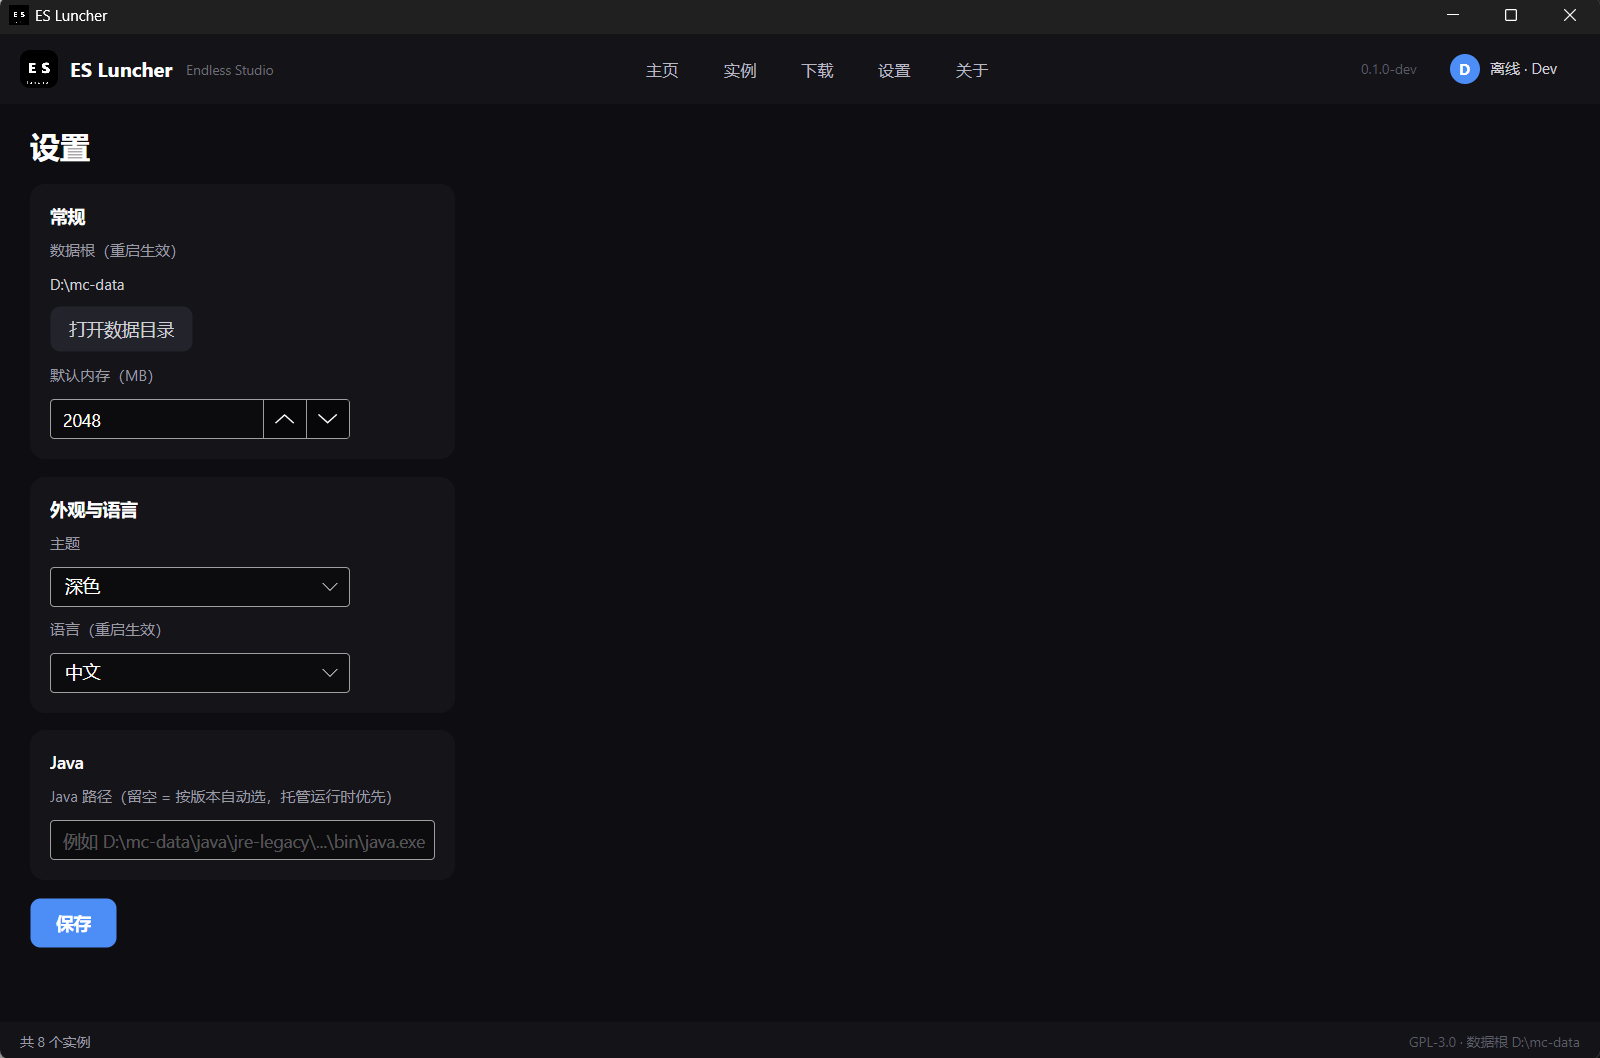
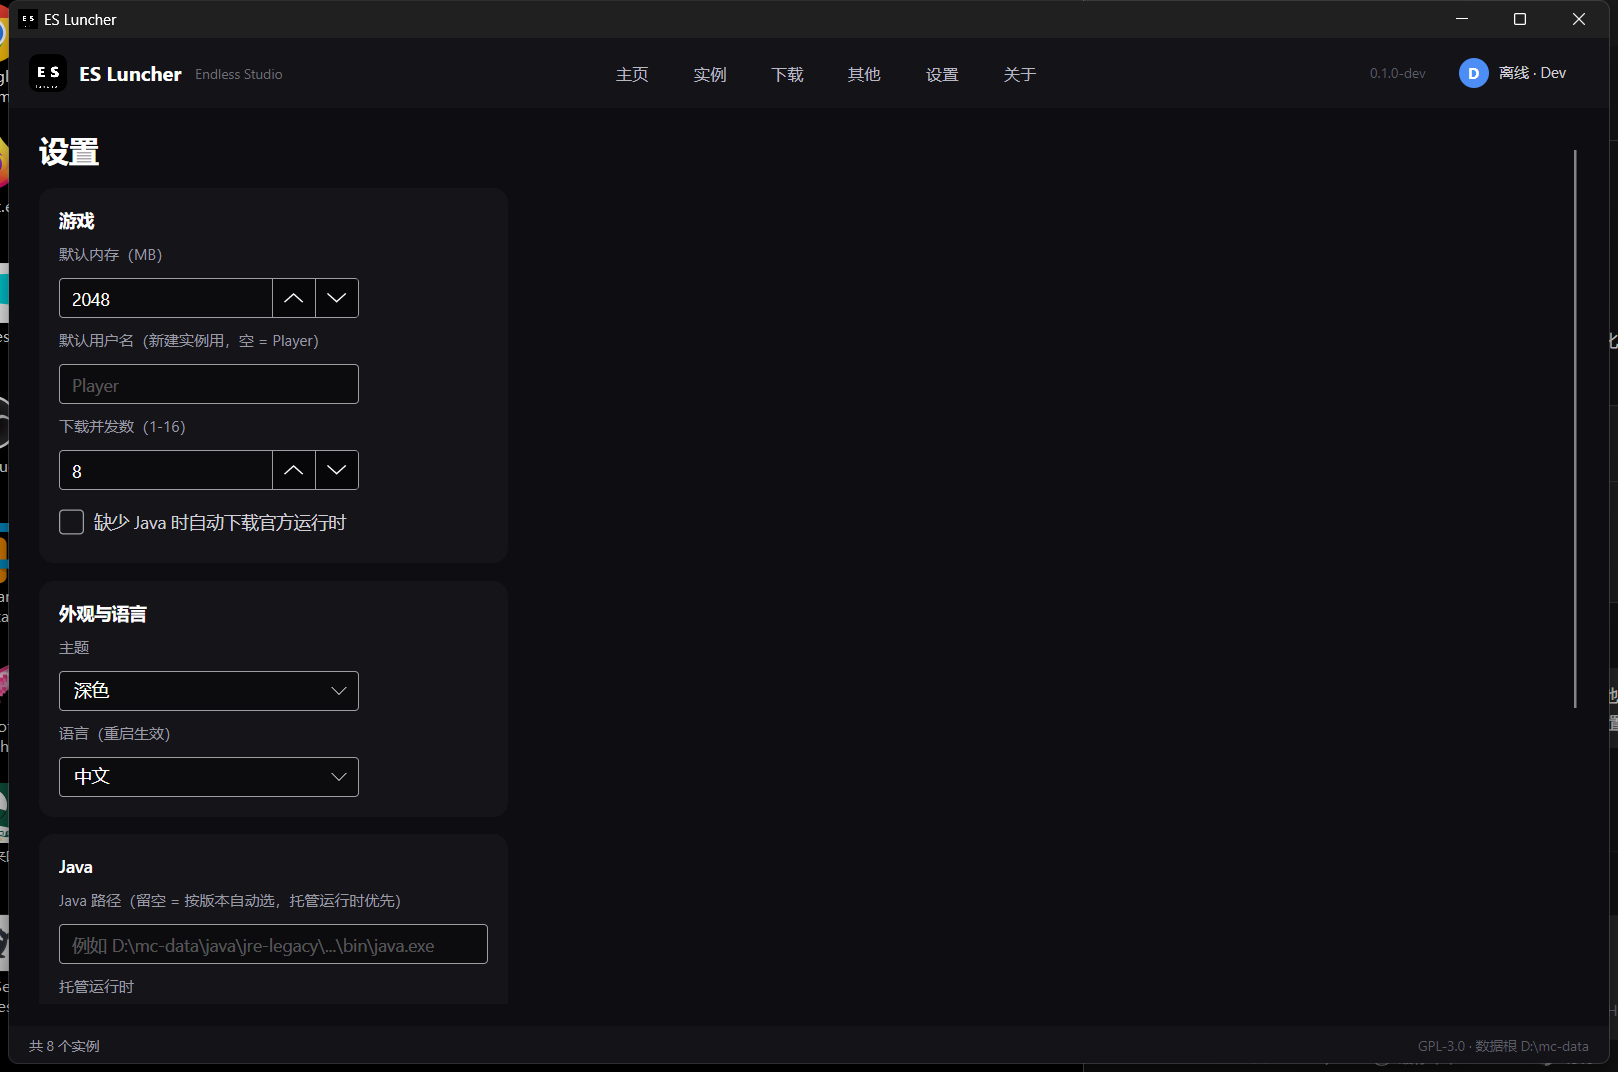
feat(ui): Others page and HMCL-style settings sections
Top nav gains 其他 with instance tools (accounts/diagnostics/logs/folders) and utilities (trash clear, developer guide, licenses). Settings rebuilt into cards: game (memory/username/concurrency/auto Java), appearance/language, Java runtimes list, data folders. New settings wired into instance creation and download concurrency. Evidence: screenshots, 196 tests.

diff --git a/src/EsLuncher.App/MainWindow.axaml.cs b/src/EsLuncher.App/MainWindow.axaml.cs
@@ -52,7 +52,7 @@ public partial class MainWindow : Window
 
         // 开发/验收用的页面起始入口：ESLUNCHER_UI_PAGE=home|instances|downloads|settings|about
         var page = Environment.GetEnvironmentVariable("ESLUNCHER_UI_PAGE")?.ToLowerInvariant();
-        if (page is "home" or "instances" or "downloads" or "settings" or "about")
+        if (page is "home" or "instances" or "downloads" or "others" or "settings" or "about")
         {
             ApplyNav(page);
         }
@@ -113,12 +113,30 @@ public partial class MainWindow : Window
         HomePage.IsVisible = tag == "home";
         InstancesPage.IsVisible = tag == "instances";
         DownloadsPage.IsVisible = tag == "downloads";
+        OthersPage.IsVisible = tag == "others";
         SettingsPage.IsVisible = tag == "settings";
         AboutPage.IsVisible = tag == "about";
         if (tag is "home" or "instances")
         {
             RefreshHome();
         }
+
+        if (tag == "others")
+        {
+            RefreshOthers();
+        }
+    }
+
+    private void RefreshOthers()
+    {
+        if (OthersInstanceText is null)
+        {
+            return;
+        }
+
+        OthersInstanceText.Text = InstanceList?.SelectedItem is InstanceItem item
+            ? $"{item.Name} · {item.Version}" + (string.IsNullOrWhiteSpace(item.Group) ? string.Empty : $" · {item.Group}")
+            : "未选择实例（先到实例页选一个）";
     }
 
     private void OnNavClick(object? sender, RoutedEventArgs e)
@@ -130,6 +148,98 @@ public partial class MainWindow : Window
     }
 
     private void OnGoInstancesClick(object? sender, RoutedEventArgs e) => ApplyNav("instances");
+
+    private void OnOthersAccountsClick(object? sender, RoutedEventArgs e)
+    {
+        new AccountsWindow(_layout, InstanceList.SelectedItem is InstanceItem item ? item.Config : null)
+            .ShowDialog(this);
+    }
+
+    private void OnOthersDiagnosticsClick(object? sender, RoutedEventArgs e)
+    {
+        if (InstanceList.SelectedItem is InstanceItem item)
+        {
+            new DiagnosticsWindow(item.Config.Name, _layout).ShowDialog(this);
+        }
+    }
+
+    private void OnOthersLogClick(object? sender, RoutedEventArgs e)
+    {
+        if (InstanceList.SelectedItem is InstanceItem item)
+        {
+            new LogWindow(item.Config.Name, _layout).Show(this);
+        }
+    }
+
+    private void OnOthersOpenInstanceClick(object? sender, RoutedEventArgs e)
+    {
+        if (InstanceList.SelectedItem is InstanceItem item)
+        {
+            Process.Start(new ProcessStartInfo("explorer.exe", _layout.InstanceDir(item.Config.Name)) { UseShellExecute = true });
+        }
+    }
+
+    private void OnOthersOpenDataClick(object? sender, RoutedEventArgs e) => OpenDirectory(_layout.Root);
+
+    private void OnOthersOpenLogsClick(object? sender, RoutedEventArgs e) => OpenDirectory(Path.Combine(_layout.Root, "logs"));
+
+    private void OnOthersOpenCacheClick(object? sender, RoutedEventArgs e) => OpenDirectory(Path.Combine(_layout.Root, "cache"));
+
+    private void OnOthersOpenTrashClick(object? sender, RoutedEventArgs e) => OpenDirectory(Path.Combine(_layout.Root, "trash"));
+
+    private void OnOthersClearTrashClick(object? sender, RoutedEventArgs e)
+    {
+        try
+        {
+            var trash = Path.Combine(_layout.Root, "trash");
+            if (Directory.Exists(trash))
+            {
+                foreach (var entry in Directory.EnumerateFileSystemEntries(trash))
+                {
+                    if (Directory.Exists(entry))
+                    {
+                        Directory.Delete(entry, recursive: true);
+                    }
+                    else
+                    {
+                        File.Delete(entry);
+                    }
+                }
+            }
+
+            OthersStatus.Text = "回收站已清空";
+        }
+        catch (Exception exception)
+        {
+            OthersStatus.Text = $"清空失败：{exception.Message}";
+        }
+    }
+
+    private void OnOthersOpenGuideClick(object? sender, RoutedEventArgs e)
+    {
+        var guide = Path.Combine(AppContext.BaseDirectory, "docs", "DEVELOPER-GUIDE.md");
+        if (!File.Exists(guide))
+        {
+            guide = Path.Combine(_layout.Root, "docs", "DEVELOPER-GUIDE.md");
+        }
+
+        if (File.Exists(guide))
+        {
+            Process.Start(new ProcessStartInfo(guide) { UseShellExecute = true });
+        }
+        else
+        {
+            OthersStatus.Text = "仓库里的 docs/DEVELOPER-GUIDE.md 在发布目录不存在";
+        }
+    }
+
+    private void OnOthersAboutClick(object? sender, RoutedEventArgs e) => ApplyNav("about");
+
+    private static void OpenDirectory(string path)
+    {
+        Directory.CreateDirectory(path);
+        Process.Start(new ProcessStartInfo("explorer.exe", path) { UseShellExecute = true });
+    }
 
     private static readonly (string Start, string End)[] HomeGradients =
     [
@@ -280,6 +390,7 @@ public partial class MainWindow : Window
         NavHomeButton.Content = Localization.T("nav.home");
         NavInstancesButton.Content = Localization.T("nav.instances");
         NavDownloadsButton.Content = Localization.T("nav.downloads");
+        NavOthersButton.Content = Localization.T("nav.others");
         NavSettingsButton.Content = Localization.T("nav.settings");
         NavAboutButton.Content = Localization.T("nav.about");
     }

diff --git a/src/EsLuncher.App/SettingsView.axaml.cs b/src/EsLuncher.App/SettingsView.axaml.cs
@@ -2,6 +2,9 @@ using Avalonia;
 using Avalonia.Controls;
 using Avalonia.Interactivity;
 using Avalonia.Styling;
+using EsLuncher.Core.Downloads;
+using EsLuncher.Core.Java;
+using EsLuncher.Core.Launching;
 using EsLuncher.Core.Settings;
 
 namespace EsLuncher.App;
@@ -14,16 +17,48 @@ public partial class SettingsView : UserControl
         DataRootText.Text = AppServices.Layout.Root;
         var settings = AppServices.Settings;
         MemoryBox.Value = settings.DefaultMemoryMb;
+        UsernameBox.Text = settings.DefaultUsername ?? string.Empty;
+        ConcurrencyBox.Value = settings.Concurrency;
+        AutoJavaBox.IsChecked = settings.AutoInstallJava;
         JavaBox.Text = settings.JavaPath ?? string.Empty;
         ThemeBox.SelectedIndex = settings.Theme == LauncherSettings.ThemeLight ? 1 : 0;
         LanguageBox.SelectedIndex = settings.Language == "en" ? 1 : 0;
+        FillJavaList();
     }
 
-    private void OnOpenDataRootClick(object? sender, Avalonia.Interactivity.RoutedEventArgs e)
-        => System.Diagnostics.Process.Start(new System.Diagnostics.ProcessStartInfo("explorer.exe", AppServices.Layout.Root)
+    private void FillJavaList()
+    {
+        try
+        {
+            var runtimes = JavaDiscovery.Discover([AppServices.Layout.JavaDir]);
+            JavaListText.Text = runtimes.Count == 0
+                ? "（还没有托管运行时）"
+                : string.Join(Environment.NewLine, runtimes.Select(runtime =>
+                    $"Java {runtime.MajorVersion} · {runtime.JavaExePath}"));
+        }
+        catch (Exception exception)
+        {
+            JavaListText.Text = $"读取失败：{exception.Message}";
+        }
+    }
+
+    private void OnOpenDataRootClick(object? sender, RoutedEventArgs e)
+        => OpenDirectory(AppServices.Layout.Root);
+
+    private void OnOpenTrashClick(object? sender, RoutedEventArgs e)
+        => OpenDirectory(Path.Combine(AppServices.Layout.Root, "trash"));
+
+    private void OnOpenJavaDirClick(object? sender, RoutedEventArgs e)
+        => OpenDirectory(AppServices.Layout.JavaDir);
+
+    private static void OpenDirectory(string path)
+    {
+        Directory.CreateDirectory(path);
+        System.Diagnostics.Process.Start(new System.Diagnostics.ProcessStartInfo("explorer.exe", path)
         {
             UseShellExecute = true,
         });
+    }
 
     private void OnSaveClick(object? sender, RoutedEventArgs e)
     {
@@ -32,6 +67,9 @@ public partial class SettingsView : UserControl
         {
             Theme = theme,
             DefaultMemoryMb = (int)(MemoryBox.Value ?? 2048),
+            DefaultUsername = string.IsNullOrWhiteSpace(UsernameBox.Text) ? null : UsernameBox.Text!.Trim(),
+            Concurrency = Math.Clamp((int)(ConcurrencyBox.Value ?? 8), 1, 16),
+            AutoInstallJava = AutoJavaBox.IsChecked == true,
             JavaPath = string.IsNullOrWhiteSpace(JavaBox.Text) ? null : JavaBox.Text!.Trim(),
             Language = LanguageBox.SelectedIndex == 1 ? "en" : "zh",
         };

diff --git a/src/EsLuncher.App/DownloadsView.axaml.cs b/src/EsLuncher.App/DownloadsView.axaml.cs
@@ -275,7 +275,7 @@ public partial class DownloadsView : UserControl
                 name,
                 versionId,
                 AppServices.Settings.DefaultMemoryMb,
-                username: null);
+                username: AppServices.Settings.DefaultUsername);
             StatusText.Text = $"已创建实例 {instance.Name} ← {instance.VersionId}（可在「实例」页启动）";
             LoadInstances();
         }
@@ -301,7 +301,7 @@ public partial class DownloadsView : UserControl
         var fetcher = new VersionFetcher(AppServices.Layout, new FileDownloader(client));
         return await fetcher.FetchAsync(
             versionId,
-            new FetchOptions { Concurrency = 8 },
+            new FetchOptions { Concurrency = AppServices.Settings.Concurrency },
             MakeProgress(),
             cancellationToken);
     }

diff --git a/tests/EsLuncher.Core.Tests/LauncherSettingsTests.cs b/tests/EsLuncher.Core.Tests/LauncherSettingsTests.cs
@@ -44,6 +44,9 @@ public sealed class LauncherSettingsTests : IDisposable
             DefaultMemoryMb = 6144,
             JavaPath = @"D:\java\bin\java.exe",
             Language = "zh",
+            DefaultUsername = "Dev",
+            Concurrency = 4,
+            AutoInstallJava = true,
         });
 
         var loaded = _store.Load();
@@ -51,6 +54,9 @@ public sealed class LauncherSettingsTests : IDisposable
         Assert.Equal(LauncherSettings.ThemeLight, loaded.Theme);
         Assert.Equal(6144, loaded.DefaultMemoryMb);
         Assert.Equal(@"D:\java\bin\java.exe", loaded.JavaPath);
+        Assert.Equal("Dev", loaded.DefaultUsername);
+        Assert.Equal(4, loaded.Concurrency);
+        Assert.True(loaded.AutoInstallJava);
     }
 
     [Fact]

diff --git a/src/EsLuncher.Core/Settings/LauncherSettings.cs b/src/EsLuncher.Core/Settings/LauncherSettings.cs
@@ -15,6 +15,15 @@ public sealed record LauncherSettings
     public string? JavaPath { get; init; }
 
     public string Language { get; init; } = "zh";
+
+    /// <summary>默认用户名（新建实例时使用，空 = Player）。</summary>
+    public string? DefaultUsername { get; init; }
+
+    /// <summary>下载并发数（1-16）。</summary>
+    public int Concurrency { get; init; } = 8;
+
+    /// <summary>缺少 Java 时是否自动下载官方运行时。</summary>
+    public bool AutoInstallJava { get; init; }
 }
 
 public sealed class SettingsStore(Downloads.DataLayout layout)

diff --git a/src/EsLuncher.App/Localization.cs b/src/EsLuncher.App/Localization.cs
@@ -14,6 +14,7 @@ public static class Localization
         ["nav.home"] = ("主页", "Home"),
         ["nav.instances"] = ("实例", "Instances"),
         ["nav.downloads"] = ("下载", "Downloads"),
+        ["nav.others"] = ("其他", "Others"),
         ["nav.settings"] = ("设置", "Settings"),
         ["nav.about"] = ("关于", "About"),
         ["toolbar.refresh"] = ("刷新", "Refresh"),

diff --git a/docs/M7-ui.md b/docs/M7-ui.md
@@ -76,6 +76,18 @@
 - **微软登录（设备代码）**：显示验证 URL + 代码，等待授权；需要 `ESLUNCHER_MSA_CLIENT_ID`（Azure 公共客户端）
 - 「取消等待」可中断微软授权轮询
 
+### 其他页 + 设置扩展（2026-11-20）
+
+![其他页](img/m7-others.png)
+
+- 顶栏新增「其他」：账户管理、诊断当前实例、查看日志、打开实例目录；工具区：打开数据/日志/缓存/回收站目录、清空回收站、开发者指南、开源许可/关于
+- 设置页对标 HMCL 分区：
+  - 游戏：默认内存、默认用户名（新建实例用）、下载并发 1-16、缺 Java 自动下载
+  - 外观与语言：深/浅色、中文/英文
+  - Java：路径、托管运行时列表、打开 Java 目录
+  - 数据：数据根、打开数据目录/回收站
+- 新设置已接到行为：新建实例使用默认用户名与内存、下载并发使用设置值
+
 ### 第二批（下载/设置/账户/最近实例，无动画）
 
 - **下载页改为分页**：`游戏版本 / 整合包 / 模组 / 资源包 / 光影 / 数据包` 六个 Tab
